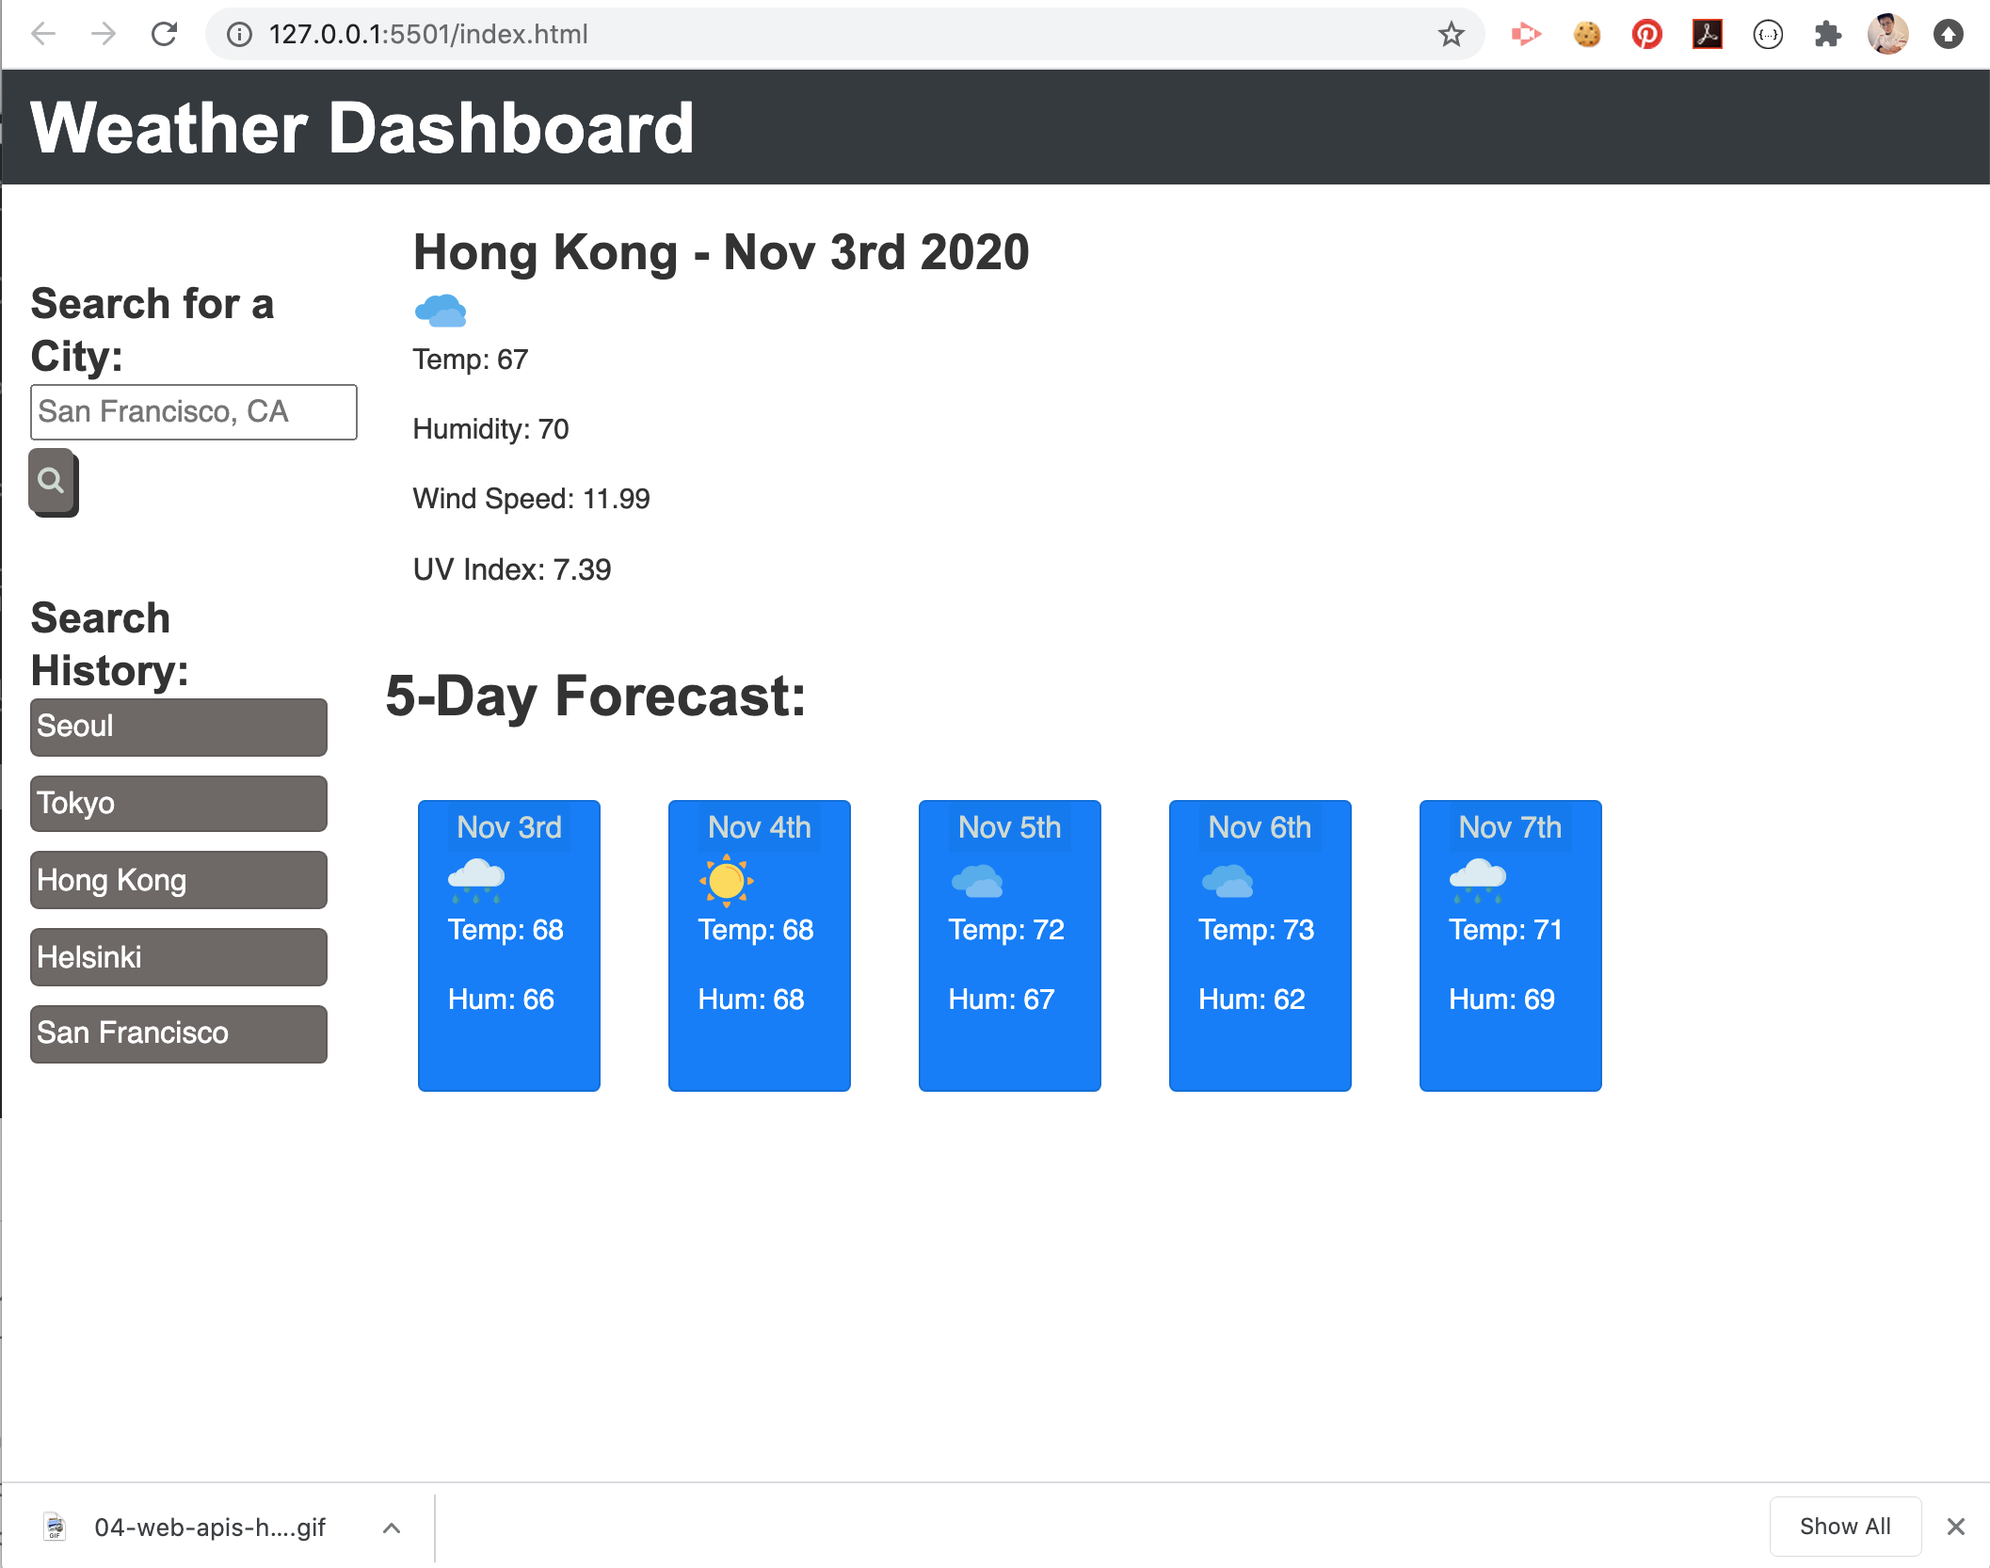
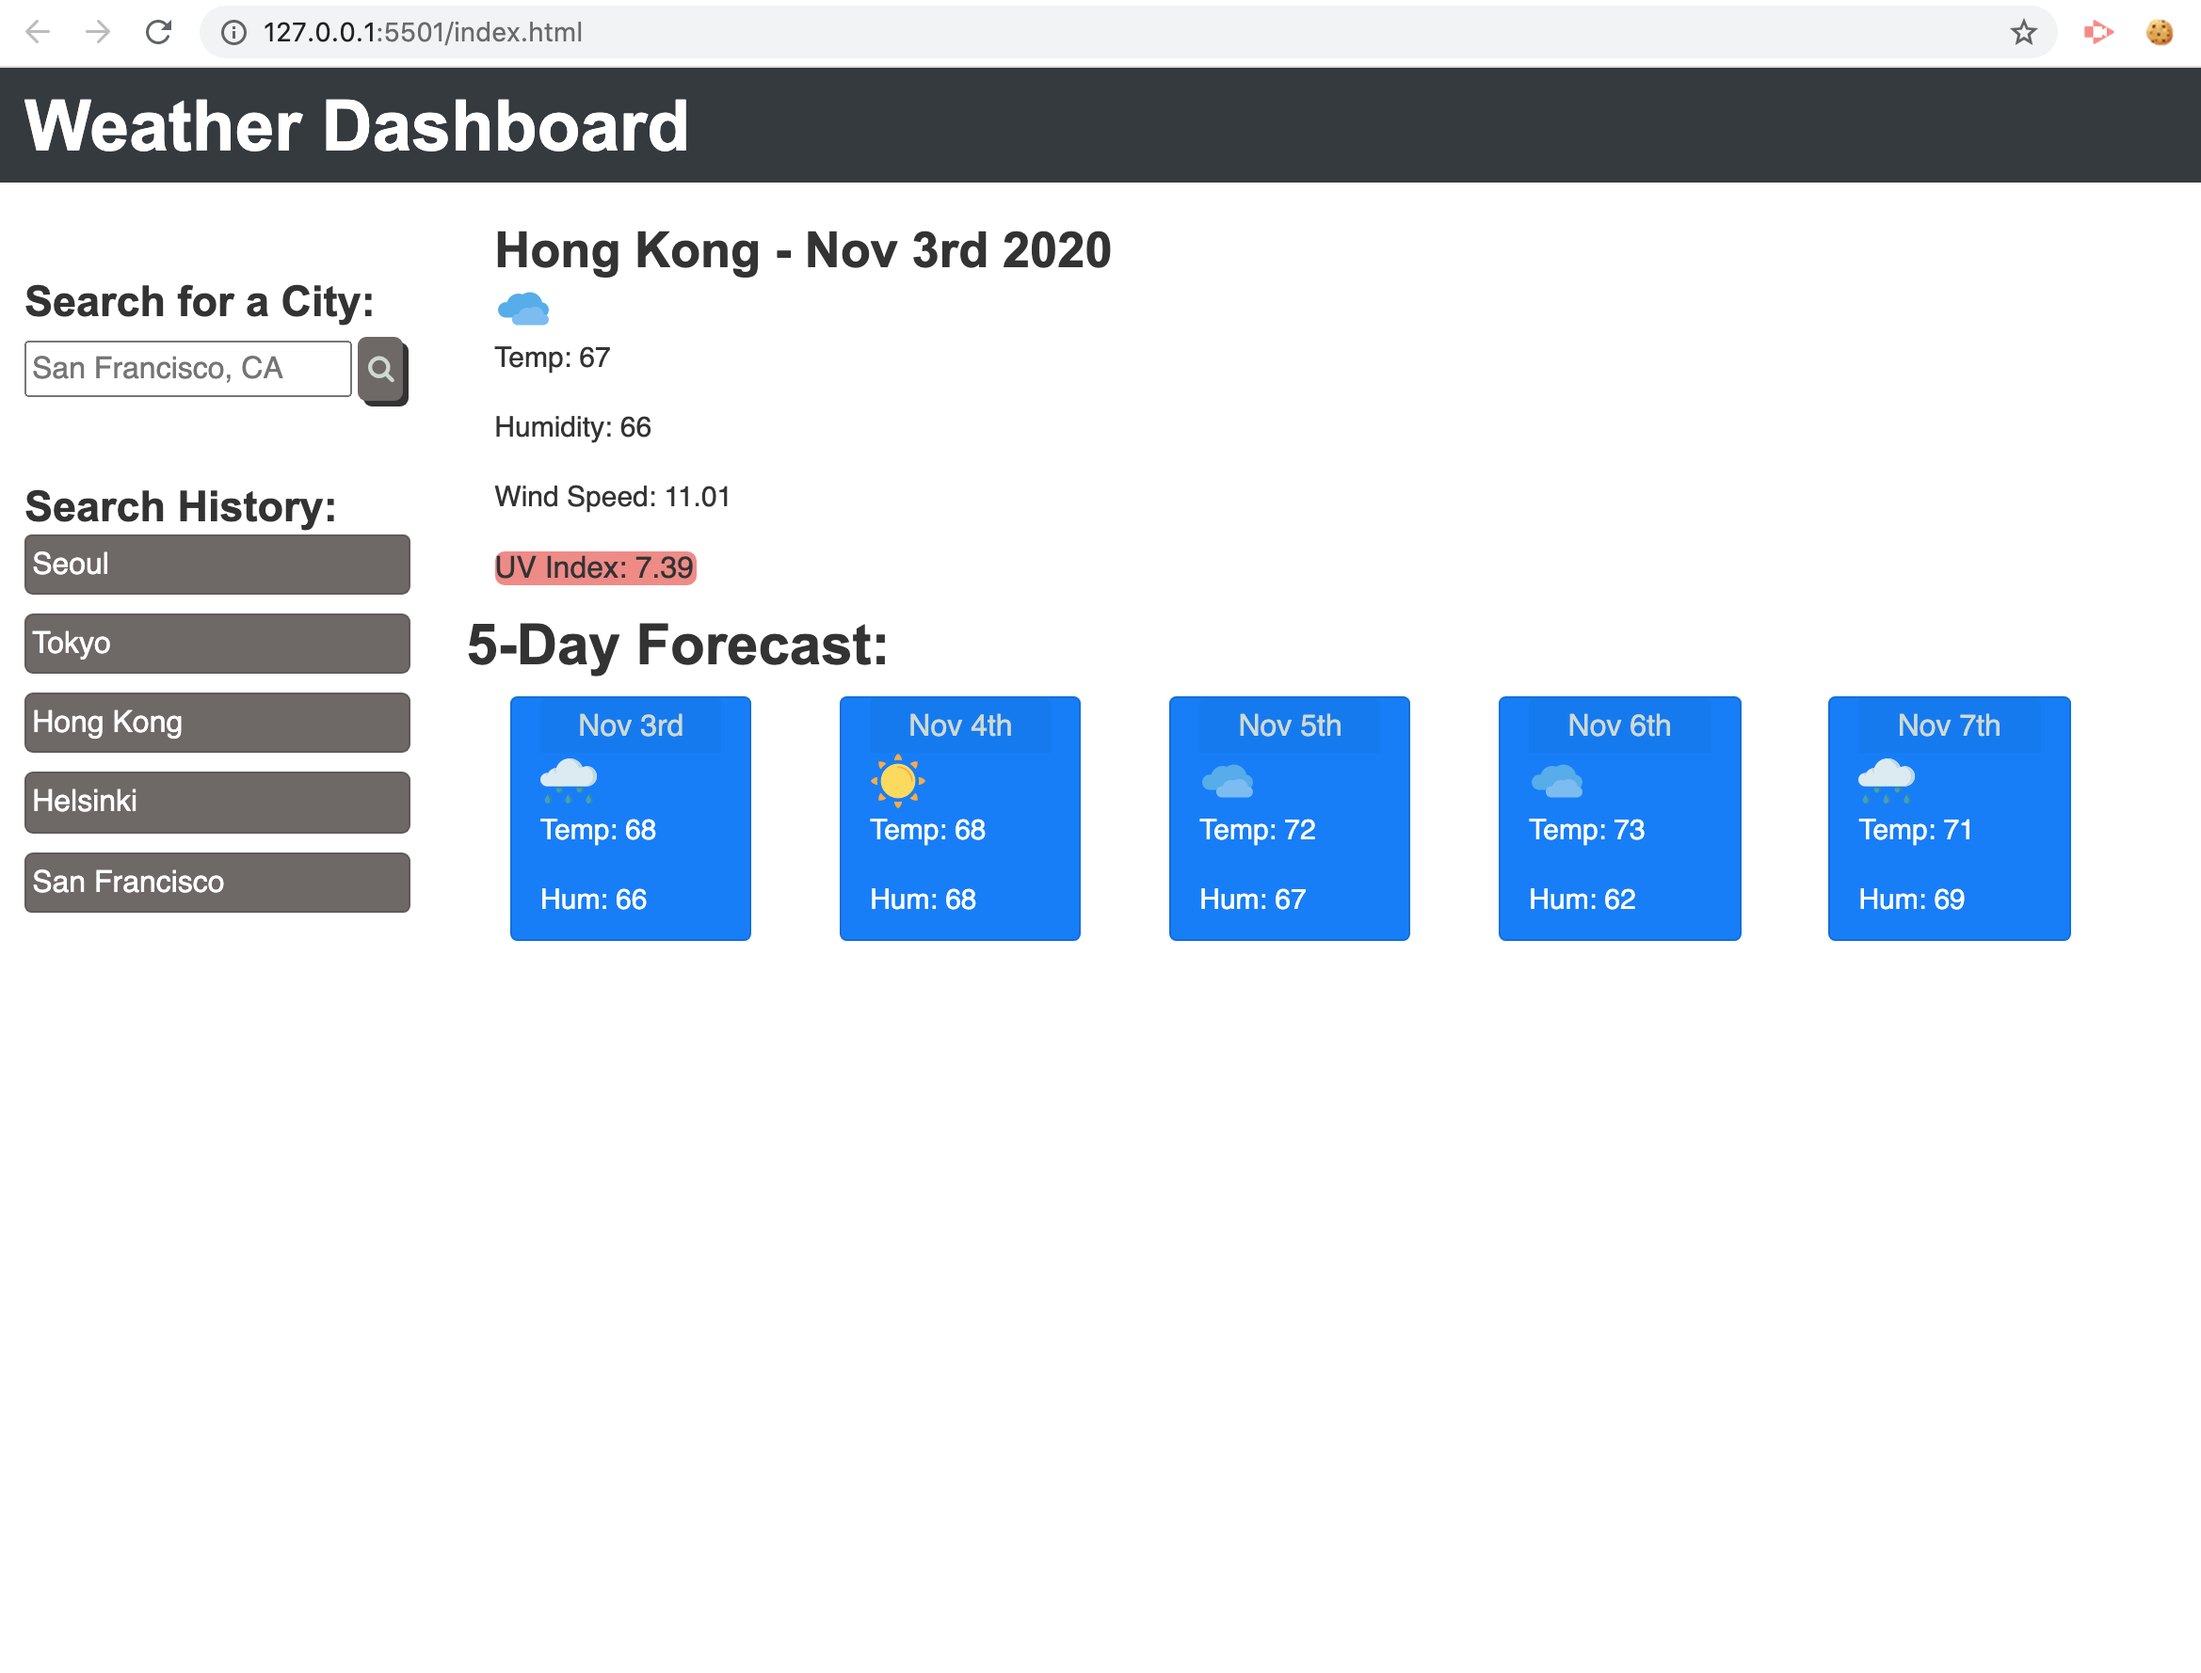
fixed uv color coding and updated ss

diff --git a/assets/css/style.css b/assets/css/style.css
@@ -518,6 +518,27 @@
       flex: 0 0 100%;
     }
   }
+
+  #currentUV {
+    padding-right: 1px;
+    margin-right: 1px;
+}
+
+.high-uv {
+    background-color: rgba(242, 12, 12, 0.5);
+    border-radius: 5px;
+}
+
+.moderate-uv {
+    background-color: rgba(253, 253, 16, 0.8);
+    border-radius: 5px;
+}
+
+.low-uv {
+    background-color: rgba(14, 189, 14, 0.5);
+    border-radius: 5px;
+}
+
   
   
   
